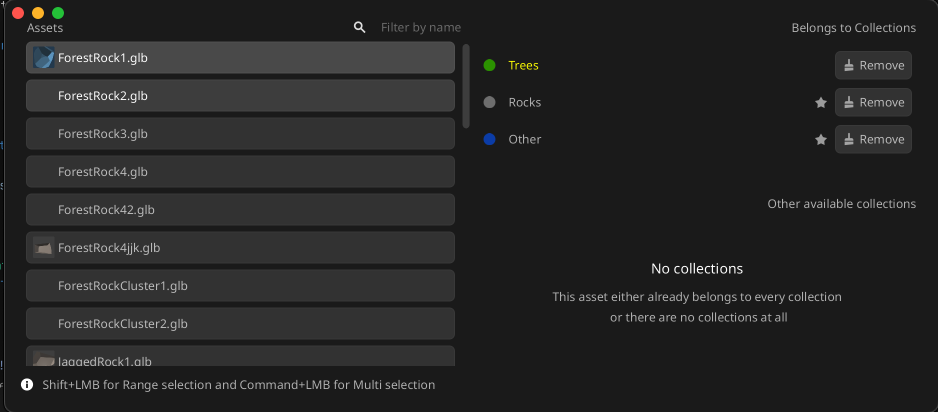
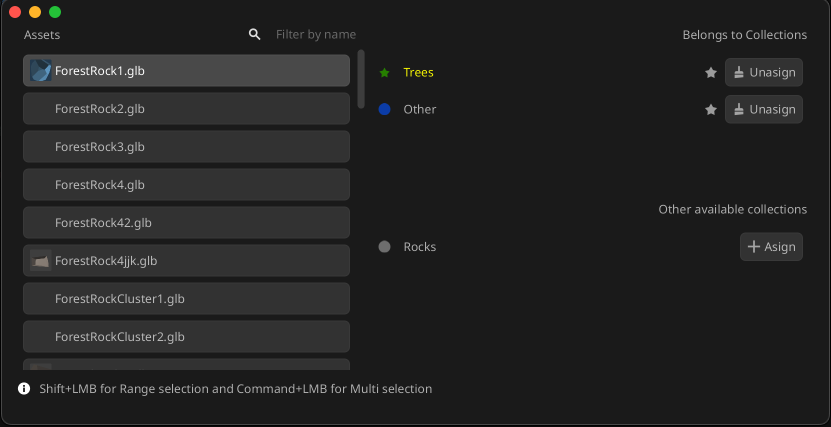
docs: update README

diff --git a/README.md b/README.md
@@ -23,7 +23,8 @@ Any Features and Suggestions are welcome as well
 - **Random Asset Placement** - Automatically select random assets from filtered list after each placement
 - **Advanced Placement Options** - Normal alignment and scene bottom alignment controls
 - Organize Assets into collections for quick access and filtering
-- Automatically group placed assets based on collections
+- **Auto-Grouping** - Automatically group placed assets under nodes named after their primary collection
+- **Folder Rules** - Configure rules to automatically assign collections when syncing asset folders
 - Filter Assets by their name and collection
 - Grid snapping when placing assets
 - Randomize asset Rotation and Scale on placement
@@ -60,6 +61,18 @@ Right now the plugin relies on user selecting the folders where your assets are 
 You can folders to sync by either Drag And Droping the folder or  using "Add folder button" within Folders Tab
 ![addon_folders.png](docs/addon_folders.png)
 
+### Folder Rules
+> Available since version 1.3.0
+
+Folder Rules allow you to automate actions when syncing asset folders. Rules are configured per-folder and can be combined to create powerful workflows.
+
+![](docs/assets/folder_rules_preview.png)
+
+**Available Rules:**
+- **Add to Collection** - Automatically assign synced assets to a specific collection
+- **Filter by Name** - Only include assets whose filename contains specified text
+
+To configure rules, click the "Rules" button on any folder in the Folders tab to expand the rules panel.
 
 ### Placing Assets
 Godot Asset Placer provides various placement modes. All methods rely on RayCasting to determine where to place the asset.
@@ -97,6 +110,24 @@ You can enable random asset placement in the Asset Placement Options. When enabl
 
 > ⚠ This feature is experimental and may require further improvements in the future.
 
+#### Auto-Grouping by Collection
+> Available since version 1.3.0
+
+When enabled in the Asset Placement Options, placed assets will automatically be grouped under Node3D nodes named after their **primary collection**. This keeps your scene tree organized without manual effort.
+
+For example, if you have assets assigned to "Trees" and "Rocks" collections:
+```
+- Parent (your selected parent node)
+    - Trees (auto-created group)
+        - Tree(1)
+        - Tree(2)
+    - Rocks (auto-created group)
+        - Rock(1)
+        - Rock(2)
+```
+
+Assets without a primary collection will be placed directly under the parent node. See [Primary Collections](#primary-collections) for how to set the primary collection for your assets.
+
 #### Transforming Assets Before Placement
 1.1.0 introduces the ability to modify the preview of the asset before placement. This includes options for rotation and scaling, allowing users to visualize how the asset will appear in the scene prior to placement, do quick and precise adjustment modifications.
 ![addon_viewport_controls.png](docs/addon_viewport_controls.png)
@@ -128,9 +159,38 @@ The viewport overlay will display the current transformation mode and active axi
 
 ### Organizing Assets
 You can organize your assets into Collections. Collections is a simple way to "group" assets together by some criteria. For example, you can create a collection for all the trees in your scene, or all the rocks, etc.
-To create a collection navigate to the Collections tab, choose a name and color. Then you can assing assets into one or more collections, either by using a options menu or draggin and dropping assets into the window while Collection Filter is activee
+To create a collection navigate to the Collections tab, choose a name and color. Then you can assign assets into one or more collections, either by using a options menu or dragging and dropping assets into the window while Collection Filter is active.
 
 ![](docs/assets/collections_panel.png)
+
+#### Collection Management
+> Available since version 1.3.0
+
+The Collection Management dialog provides a streamlined way to assign and remove collections from multiple assets at once.
+
+![](docs/assets/cm_preview.png)
+
+**Features:**
+- **Batch Selection** - Select multiple assets using Shift+Click (range) or Ctrl/Cmd+Click (multi-select)
+- **Quick Assignment** - Add or remove collections from all selected assets with one click
+- **Visual Feedback** - See which collections are fully assigned, partially assigned, or available
+
+To open the Collection Management dialog:
+- Click "Manage Collections" button in the Collections tab
+- Right-click an asset and select "Manage Collections"
+
+#### Primary Collections
+> Available since version 1.3.0
+
+Each asset can have one **primary collection** that determines how it's grouped when using [Auto-Grouping](#auto-grouping-by-collection).
+
+![](docs/assets/manage_collections.png)
+
+**Setting a Primary Collection:**
+- In the Collection Management dialog, assigned collections show a star icon
+- Click the star to set that collection as primary / Click Again to reset it 
+
+When multiple assets are selected, the star button is always visible for easy batch assignment of primary collections.
 
 ### Settings Panel
 Version 1.2.0 introduced a dedicated Settings Panel for comprehensive customization of the Asset Placer plugin.
